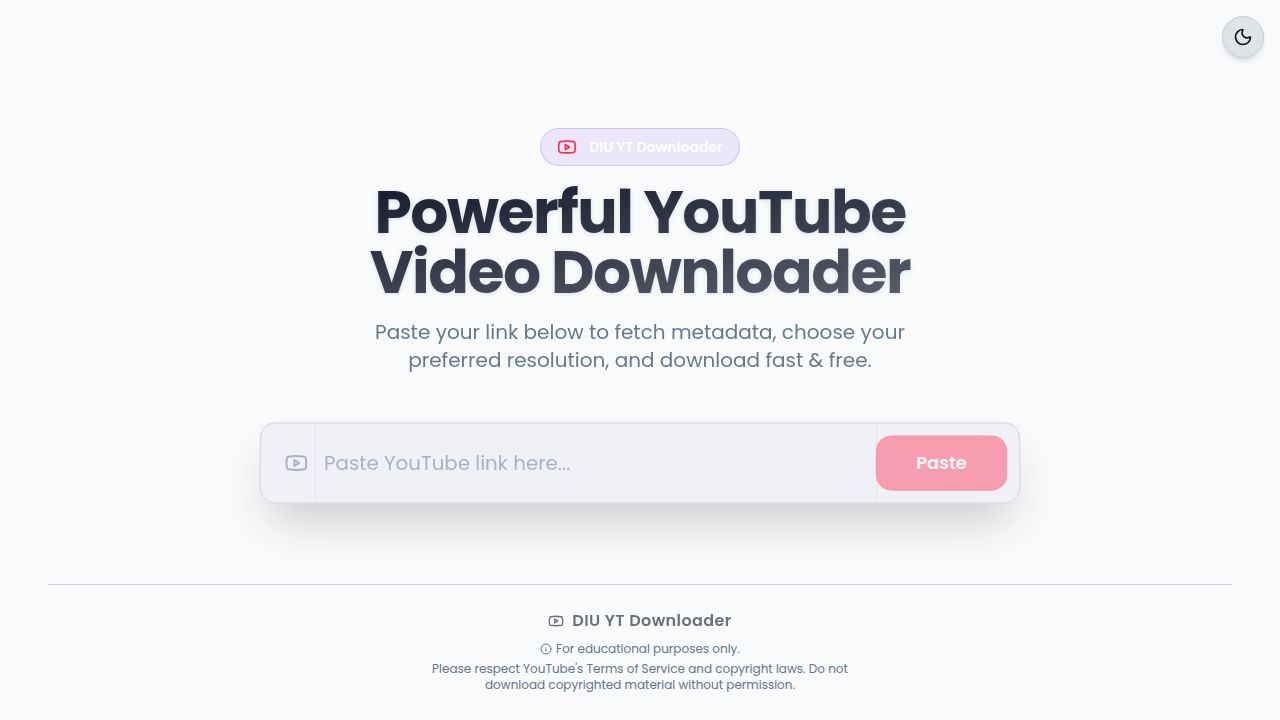
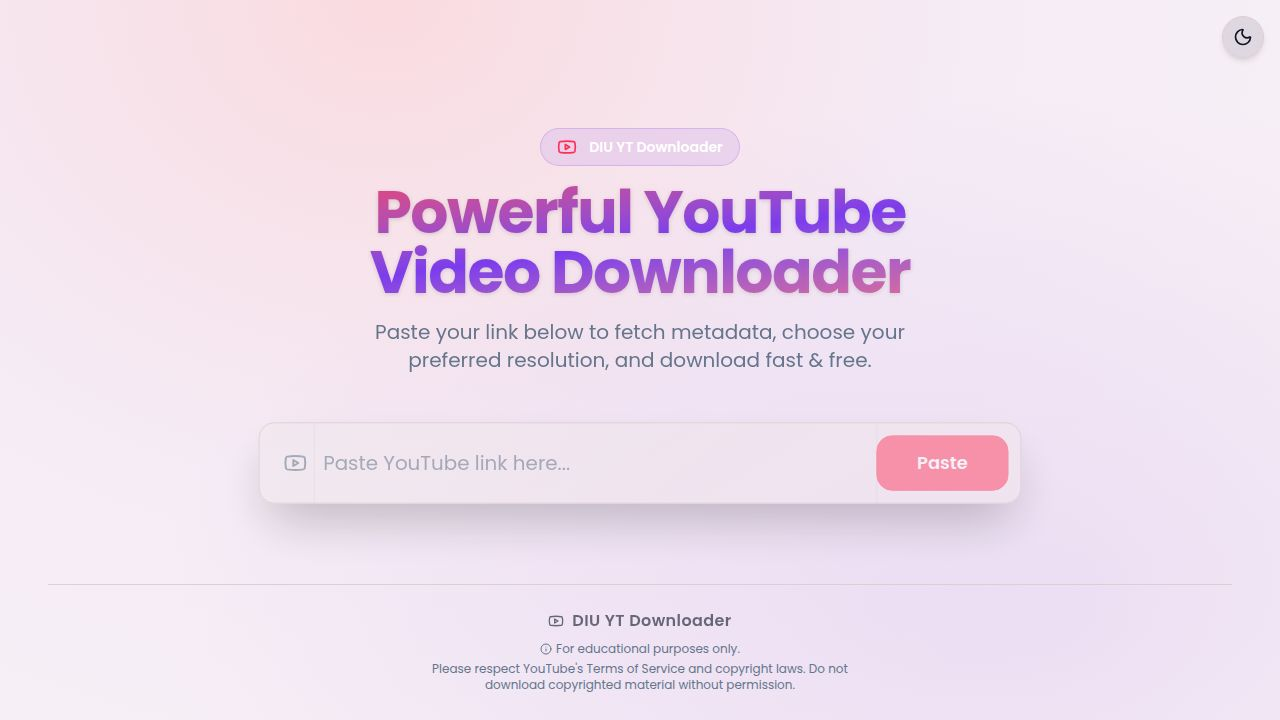
feat: Attractive light theme redesign for DIU YT Downloader
Task: Redesign the light theme to match the premium feel of the dark theme.

Changes made:

1. index.css - Light theme CSS variables updated:
   - --background: Changed to warm rose-tinted (340 30% 97%) from flat near-white
   - --card / --popover / --sidebar: Warm rose-tinted (340 40% 99%) instead of cold white
   - --card-border / --border: Warm rose-tinted (340 25-30% 84-86%) instead of cold gray
   - --muted: Warm rose tint (340 25% 91%)
   - --accent: Soft lavender (280 30% 92%) for purple brand identity
   - Shadow variables: Replaced flat black shadows with brand-colored red+purple shadows

2. index.css - Light mode body warm radial gradient:
   - Pinkish-warm center (top-left), lavender-purple glow (bottom-right), rose base
   - Mirrors the dark mode pattern (.dark body uses navy radial gradient)

3. index.css - pulse-glow animation enhanced and tokenized:
   - Updated keyframes to use CSS variables (--pulse-glow-color-1/2) via color-mix()
   - Stronger, dual-color red+purple glow (clearly visible in light mode)
   - Fully theme-aware — dark mode unchanged since primary colors are the same

4. Home.tsx - Hero heading gradient updated:
   - Changed from foreground→foreground/60 (invisible in light) to from-primary via-secondary to-primary/70
   - Vibrant red→purple brand gradient in light mode
   - Dark mode retains original foreground gradient via dark: Tailwind variants

No layout, spacing, component structure, or dark theme colors were changed.
[…]

Changed region(s): [[0.0938, 0.0, 0.7188, 0.5194], [0.4375, 0.5806, 0.9375, 0.9778], [0.7188, 0.6417, 0.75, 0.6722]]

diff --git a/artifacts/diu-yt-downloader/src/index.css b/artifacts/diu-yt-downloader/src/index.css
@@ -66,13 +66,18 @@
   --radius-lg: var(--radius);
   --radius-xl: calc(var(--radius) + 4px);
   
+  --pulse-glow-color-1: hsl(349 100% 59%);
+  --pulse-glow-color-2: hsl(262 83% 58%);
+
   /* Custom Animation */
   @keyframes pulse-glow {
     0%, 100% {
-      box-shadow: 0 0 15px 0px hsl(var(--primary) / 0.5);
+      box-shadow: 0 0 20px 2px color-mix(in srgb, var(--pulse-glow-color-1) 55%, transparent),
+                  0 0 8px 0px color-mix(in srgb, var(--pulse-glow-color-2) 30%, transparent);
     }
     50% {
-      box-shadow: 0 0 30px 5px hsl(var(--primary) / 0.8);
+      box-shadow: 0 0 38px 8px color-mix(in srgb, var(--pulse-glow-color-1) 80%, transparent),
+                  0 0 18px 3px color-mix(in srgb, var(--pulse-glow-color-2) 45%, transparent);
     }
   }
 }
@@ -88,20 +93,20 @@
   --elevate-2: rgba(0,0,0, .09);
 
   /* Light palette */
-  --background: 210 40% 98%;
+  --background: 340 30% 97%;
   --foreground: 226 50% 10%;
 
-  --border: 226 20% 82%;
-  --input: 226 20% 92%;
+  --border: 340 25% 84%;
+  --input: 340 20% 92%;
   --ring: 349 100% 59%;
 
-  --card: 0 0% 100%;
+  --card: 340 40% 99%;
   --card-foreground: 226 50% 10%;
-  --card-border: 226 20% 82%;
+  --card-border: 340 30% 86%;
 
-  --popover: 0 0% 100%;
+  --popover: 340 40% 99%;
   --popover-foreground: 226 50% 10%;
-  --popover-border: 226 20% 82%;
+  --popover-border: 340 30% 86%;
 
   /* Bold Red */
   --primary: 349 100% 59%;
@@ -111,21 +116,21 @@
   --secondary: 262 83% 58%;
   --secondary-foreground: 0 0% 100%;
 
-  --muted: 226 20% 88%;
+  --muted: 340 25% 91%;
   --muted-foreground: 215 16% 47%;
 
-  --accent: 226 20% 90%;
+  --accent: 280 30% 92%;
   --accent-foreground: 226 50% 10%;
 
   --destructive: 0 84.2% 60.2%;
   --destructive-foreground: 210 40% 98%;
 
-  --sidebar: 0 0% 100%;
+  --sidebar: 340 40% 99%;
   --sidebar-foreground: 226 50% 10%;
-  --sidebar-border: 226 20% 82%;
+  --sidebar-border: 340 30% 86%;
   --sidebar-primary: 349 100% 59%;
   --sidebar-primary-foreground: 0 0% 100%;
-  --sidebar-accent: 226 20% 88%;
+  --sidebar-accent: 340 25% 91%;
   --sidebar-accent-foreground: 226 50% 10%;
   --sidebar-ring: 349 100% 59%;
 
@@ -141,14 +146,14 @@
 
   --radius: 0.75rem;
 
-  --shadow-2xs: 0px 2px 0px 0px rgba(0,0,0,0.08);
-  --shadow-xs: 0px 2px 0px 0px rgba(0,0,0,0.08);
-  --shadow-sm: 0px 2px 0px 0px rgba(0,0,0,0.08), 0px 1px 2px -1px rgba(0,0,0,0.08);
-  --shadow: 0px 2px 0px 0px rgba(0,0,0,0.08), 0px 1px 2px -1px rgba(0,0,0,0.08);
-  --shadow-md: 0px 2px 0px 0px rgba(0,0,0,0.08), 0px 2px 4px -1px rgba(0,0,0,0.08);
-  --shadow-lg: 0px 2px 0px 0px rgba(0,0,0,0.08), 0px 4px 6px -1px rgba(0,0,0,0.08);
-  --shadow-xl: 0px 2px 0px 0px rgba(0,0,0,0.08), 0px 8px 10px -1px rgba(0,0,0,0.08);
-  --shadow-2xl: 0px 2px 0px 0px rgba(0,0,0,0.08);
+  --shadow-2xs: 0px 2px 0px 0px rgba(220,38,80,0.07);
+  --shadow-xs: 0px 2px 0px 0px rgba(220,38,80,0.07);
+  --shadow-sm: 0px 2px 0px 0px rgba(220,38,80,0.07), 0px 1px 2px -1px rgba(130,60,180,0.08);
+  --shadow: 0px 2px 0px 0px rgba(220,38,80,0.07), 0px 1px 2px -1px rgba(130,60,180,0.08);
+  --shadow-md: 0px 2px 0px 0px rgba(220,38,80,0.08), 0px 2px 4px -1px rgba(130,60,180,0.10);
+  --shadow-lg: 0px 2px 0px 0px rgba(220,38,80,0.08), 0px 4px 6px -1px rgba(130,60,180,0.12);
+  --shadow-xl: 0px 2px 0px 0px rgba(220,38,80,0.09), 0px 8px 10px -1px rgba(130,60,180,0.14);
+  --shadow-2xl: 0px 2px 0px 0px rgba(220,38,80,0.09);
 
   --tracking-normal: 0em;
   --spacing: 0.25rem;
@@ -246,6 +251,13 @@
   body {
     @apply font-sans antialiased text-foreground bg-background;
     min-height: 100dvh;
+  }
+
+  body {
+    background: radial-gradient(ellipse at 30% 0%, rgba(249,100,120,0.18) 0%, rgba(200,150,230,0.10) 45%, rgba(230,220,240,0.08) 100%),
+                radial-gradient(ellipse at 80% 80%, rgba(147,80,220,0.12) 0%, transparent 60%),
+                hsl(340 30% 97%);
+    color-scheme: light;
   }
 
   .dark body {

diff --git a/artifacts/diu-yt-downloader/src/pages/Home.tsx b/artifacts/diu-yt-downloader/src/pages/Home.tsx
@@ -170,7 +170,7 @@ export default function Home() {
             initial={{ opacity: 0, y: -10 }}
             animate={{ opacity: 1, y: 0 }}
             transition={{ duration: 0.5, delay: 0.1 }}
-            className="text-4xl md:text-6xl font-bold tracking-tight bg-clip-text text-transparent bg-gradient-to-br from-foreground to-foreground/60 drop-shadow-sm"
+            className="text-4xl md:text-6xl font-bold tracking-tight bg-clip-text text-transparent bg-gradient-to-br from-primary via-secondary to-primary/70 dark:from-foreground dark:via-foreground/80 dark:to-foreground/60 drop-shadow-sm"
           >
             Powerful YouTube <br className="hidden md:block"/> Video Downloader
           </motion.h1>